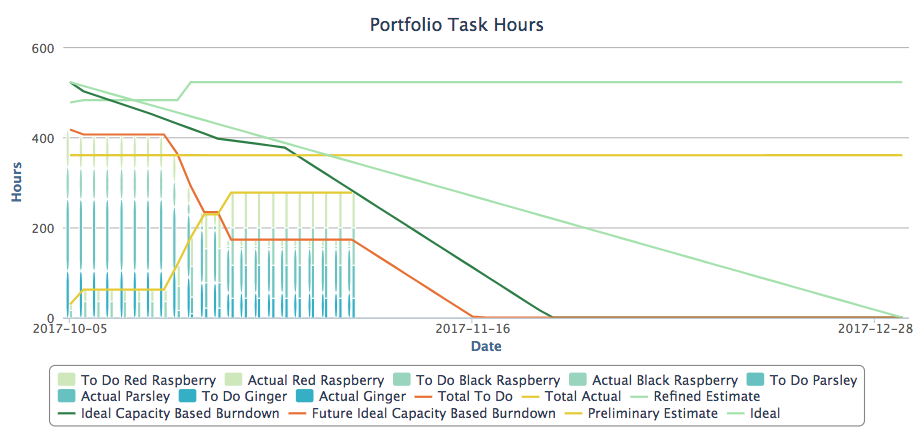
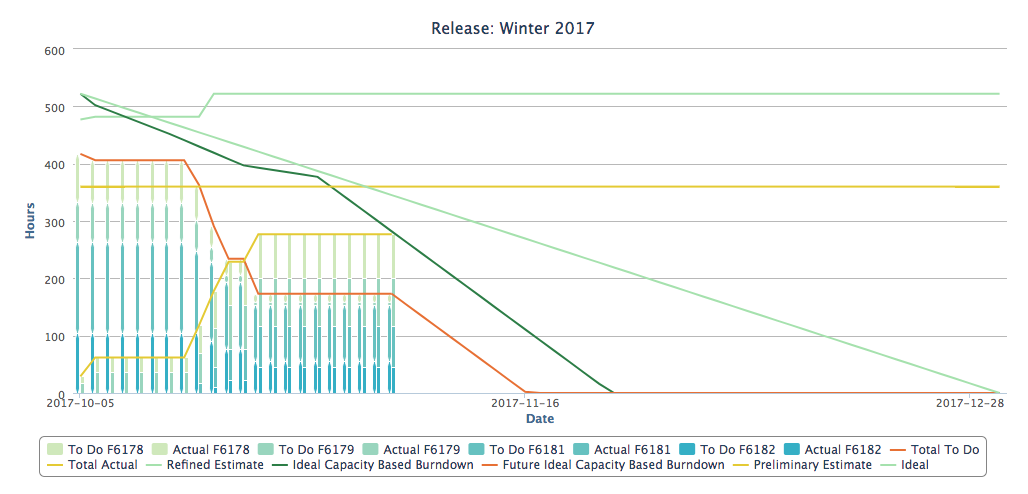
Misc fixes - full height chart - can now load features for individual PIs - spinner while data loading - Release or Feature IDs on title - burndowns start on actual instead of 1st todo - pass feature Model objects around - don't use ReleaseStartDate as an actual start date - clarified data loading m

diff --git a/src/javascript/Calculator.js b/src/javascript/Calculator.js
@@ -11,7 +11,7 @@
     var METRIC_NAME_FUTURE_IDEAL_CAPACITY_BURNDOWN = 'Future ' + METRIC_NAME_IDEAL_CAPACITY_BURNDOWN;
     var METRIC_NAME_TASK_ESTIMATE_TOTAL = 'Refined Estimate';
 
-    var SUMMARY_METRIC_NAME_TOTAL_TODO_START_INDEX = METRIC_NAME_TOTAL_TODO + ' Start Index';
+    var SUMMARY_METRIC_NAME_ACTUAL_START_INDEX = 'Actual Start Index';
     var SUMMARY_METRIC_NAME_TODAY_INDEX = 'Today Index';
     var SUMMARY_METRIC_NAME_INITIAL_HOUR_ESTIMATE = 'Preliminary Estimate';
     var SUMMARY_METRIC_NAME_IDEAL_BURNDOWN = 'Ideal';
@@ -73,12 +73,12 @@
             // Minimum step of 1, otherwise step an even amount if there are a small number of features
             var colorIndexStep = Math.min(1, Math.floor(numColors / Math.min(numColors, this.features.length)));
             _.each(this.features, function (feature) {
-                metricNames[METRIC_NAME_PREFIX_TODO + feature.Name] = {
+                metricNames[METRIC_NAME_PREFIX_TODO + feature.get('FormattedID')] = {
                     stack: METRIC_NAME_PREFIX_TODO,
                     color: Ext.draw.Color.toHex(colors[colorIndex]),
                     borderRadius: 10
                 };
-                metricNames[METRIC_NAME_PREFIX_ACTUAL + feature.Name] = {
+                metricNames[METRIC_NAME_PREFIX_ACTUAL + feature.get('FormattedID')] = {
                     stack: METRIC_NAME_PREFIX_ACTUAL,
                     color: Ext.draw.Color.toHex(colors[colorIndex])
                 };
@@ -115,49 +115,7 @@
 
         _getCapacityBurndownForTick: function (snapshot, index, summaryMetrics, seriesData) {
             var result = 0;
-            // TODO if today is not on the chart
-            var todoStartIndex = summaryMetrics[SUMMARY_METRIC_NAME_TOTAL_TODO_START_INDEX];
-            if (index < todoStartIndex) {
-                // Haven't started yet
-                result = null;
-            } else if (index == todoStartIndex) {
-                // First day To Do data is available, this is start of ideal burndown
-                result = summaryMetrics[SUMMARY_METRIC_NAME_TASK_EST_TOTAL_MAX];
-            } else {
-                var latestValidCapacitySnapshot;
-                var todayIndex = summaryMetrics[SUMMARY_METRIC_NAME_TODAY_INDEX];
-                if (todayIndex == -1) {
-                    var todayDate = new Date();
-                    var startDate = Ext.Date.parse(seriesData[0].tick, 'c');
-                    if (startDate > todayDate) {
-                        // Chart begins after today
-                        todayIndex = 0;
-                    } else {
-                        // Chart ends before today
-                        todayIndex = seriesData.length - 1;
-                    }
-                }
-
-                if (index > todayIndex) {
-                    latestValidCapacitySnapshot = seriesData[todayIndex];
-                } else {
-                    latestValidCapacitySnapshot = snapshot;
-                }
-                var currentCapacity = this._getDailyCapacityForTick(latestValidCapacitySnapshot);
-
-                var priorSnapshot = seriesData[index - 1];
-
-                // Today the team (ideally) would have reduced yesterday's remaining work by today's
-                // daily capacity resulting in today's "ideal capacity burndown" value, which will be
-                // the idea amount of work the team will reduce by tomorrow's capacity, etc.
-                result = Math.max(0, priorSnapshot[METRIC_NAME_IDEAL_CAPACITY_BURNDOWN] - currentCapacity);
-            }
-            return result;
-        },
-
-        _getCapacityBurndownForTick: function (snapshot, index, summaryMetrics, seriesData) {
-            var result = 0;
-            var todoStartIndex = summaryMetrics[SUMMARY_METRIC_NAME_TOTAL_TODO_START_INDEX];
+            var todoStartIndex = summaryMetrics[SUMMARY_METRIC_NAME_ACTUAL_START_INDEX];
             if (index < todoStartIndex) {
                 // Haven't started yet
                 result = null;
@@ -225,7 +183,7 @@
 
         _getDataForFeature: function (feature, snapshot, attribute) {
             // TODO (tj) Add to readme that 'Feature' name may vary if Portfolio item type
-            if (snapshot.Feature === feature.ObjectID) {
+            if (snapshot.Feature === feature.get('ObjectID')) {
                 return snapshot[attribute];
             } else {
                 return 0;
@@ -234,7 +192,7 @@
 
         _getFeaturesInitialHourEstimates: function () {
             return _.reduce(this.features, function (sum, feature) {
-                return sum + (feature.c_InitialHourEstimate || 0);
+                return sum + (feature.get('c_InitialHourEstimate') || 0);
             }, 0);
         },
 
@@ -246,7 +204,7 @@
 
             var result = 0;
 
-            var todoStartIndex = summaryMetrics[SUMMARY_METRIC_NAME_TOTAL_TODO_START_INDEX];
+            var todoStartIndex = summaryMetrics[SUMMARY_METRIC_NAME_ACTUAL_START_INDEX];
 
             if (index < todoStartIndex) {
                 // Haven't started yet
@@ -280,13 +238,13 @@
             // to each feature. This will be summed by metrics in getMetrics.
             _.forEach(this.features, function (feature) {
                 fields.push({
-                    as: METRIC_NAME_PREFIX_TODO + feature.Name,
+                    as: METRIC_NAME_PREFIX_TODO + feature.get('FormattedID'),
                     f: function (snapshot) {
                         return self._getDataForFeature(feature, snapshot, 'TaskRemainingTotal');
                     }
                 });
                 fields.push({
-                    as: METRIC_NAME_PREFIX_ACTUAL + feature.Name,
+                    as: METRIC_NAME_PREFIX_ACTUAL + feature.get('FormattedID'),
                     f: function (snapshot) {
                         return self._getDataForFeature(feature, snapshot, 'TaskActualTotal');
                     }
@@ -353,14 +311,14 @@
             */
             _.each(this.features, function (feature) {
                 metrics.push({
-                    field: METRIC_NAME_PREFIX_TODO + feature.Name,
-                    as: METRIC_NAME_PREFIX_TODO + feature.Name,
+                    field: METRIC_NAME_PREFIX_TODO + feature.get('FormattedID'),
+                    as: METRIC_NAME_PREFIX_TODO + feature.get('FormattedID'),
                     f: 'sum',
                     display: 'column'
                 });
                 metrics.push({
-                    field: METRIC_NAME_PREFIX_ACTUAL + feature.Name,
-                    as: METRIC_NAME_PREFIX_ACTUAL + feature.Name,
+                    field: METRIC_NAME_PREFIX_ACTUAL + feature.get('FormattedID'),
+                    as: METRIC_NAME_PREFIX_ACTUAL + feature.get('FormattedID'),
                     f: 'sum',
                     display: 'column'
                 });
@@ -405,12 +363,6 @@
         getSummaryMetricsConfig: function () {
             return [
                 {
-                    as: SUMMARY_METRIC_NAME_TOTAL_TODO_START_INDEX,
-                    f: function (seriesData, summaryMetrics) {
-                        return _.findIndex(seriesData, METRIC_NAME_TOTAL_TODO);
-                    }
-                },
-                {
                     as: SUMMARY_METRIC_NAME_INITIAL_HOUR_ESTIMATE,
                     f: this._getFeaturesInitialHourEstimates.bind(this)
                 },
@@ -418,6 +370,15 @@
                     field: METRIC_NAME_TASK_ESTIMATE_TOTAL,
                     as: SUMMARY_METRIC_NAME_TASK_EST_TOTAL_MAX,
                     f: 'max'
+                },
+                {
+                    as: SUMMARY_METRIC_NAME_ACTUAL_START_INDEX,
+                    f: (function (seriesData, summaryMetrics) {
+                        var startDate = Ext.Date.parse(this.getStartDate(), 'c');
+                        return _.findIndex(seriesData, function (data) {
+                            return Ext.Date.parse(data.tick, 'c') >= startDate;
+                        });
+                    }).bind(this)
                 },
                 {
                     as: SUMMARY_METRIC_NAME_TODAY_INDEX,

diff --git a/src/javascript/app.js b/src/javascript/app.js
@@ -1,31 +1,17 @@
 // TODO (tj) use Ext or _ for array functions
 // TODO (tj) use Ext.Date.between for date checks
 
-//TODO (tj) Next steps
-/**
- * Manual tests
- * Select Theme with child Initiatives, Features and Stories
- * Select Initiative with child Features and Stories
- * Select Feature with child Stories
- * Select Portfolio Item with no direct children
- * Select Portfolio Item with no decendent Stories
- * Select Portfolio Items with mix of decendent Stories and no decendent
- *
- * What if no items returned for any expected item? Features, Iterations, Stories, etc...
- */
-
 // TODO (tj) Possible optimizations
 /**
  * If only 1 features, make todo and actual different colors
  * dash/dot the todo and actual lines
  * distinct colors for all lines (different from columns)
- * Start chart on actual start date
  */
 
 Ext.define("com.ca.technicalservices.Burnupdown", {
-    extend: 'Rally.app.TimeboxScopedApp',
+    extend: 'Rally.app.App',
 
-    scopeType: 'release',
+    layout: 'fit',
 
     requires: [
         'SettingsUtils',
@@ -68,22 +54,25 @@ Ext.define("com.ca.technicalservices.Burnupdown", {
     launch: function () {
         var promise;
         var release, features, stories, startDate, endDate, iterationCapacitiesManager;
+
+        this.setLoading("Loading data ...");
+
         var releaseManager = Ext.create('com.ca.technicalservices.Burnupdown.ReleaseManager');
 
-        if ( SettingsUtils.isReleaseScope() ) {
+        if (SettingsUtils.isReleaseScope()) {
             promise = releaseManager.getReleaseByName(SettingsUtils.getRelease().Name)
         } else {
             promise = Deft.promise.Promise.when(undefined);
         }
 
         promise.then({
-                scope: this,
-                success: function (releaseData) {
-                    release = releaseData;
-                    var featureManager = Ext.create('com.ca.technicalservices.Burnupdown.FeatureManager');
-                    return featureManager.getFeatures(release);
-                }
-            })
+            scope: this,
+            success: function (releaseData) {
+                release = releaseData;
+                var featureManager = Ext.create('com.ca.technicalservices.Burnupdown.FeatureManager');
+                return featureManager.getFeatures(release);
+            }
+        })
             .then({
                 scope: this,
                 success: function (featuresData) {
@@ -111,7 +100,7 @@ Ext.define("com.ca.technicalservices.Burnupdown", {
                 scope: this,
                 success: function () {
                     var storyOids = _.pluck(stories, 'ObjectID');
-                    this.add({
+                    var chart = this.add({
                         xtype: 'rallychart',
                         storeType: 'Rally.data.lookback.SnapshotStore',
                         storeConfig: this._getStoreConfig(storyOids),
@@ -123,12 +112,22 @@ Ext.define("com.ca.technicalservices.Burnupdown", {
                             iterationCapacitiesManager: iterationCapacitiesManager,
                             features: features
                         },
-                        chartConfig: this._getChartConfig()
+                        chartConfig: this._getChartConfig(this._getChartTitle(release, features)),
+                        loadMask: false,
+                        listeners: {
+                            scope: this,
+                            readyToRender: function () {
+                                this.setLoading(false);
+                            }
+                        }
                     });
+                    chart.setLoadMask(false);   // Hide chart default load mask
                 }
             })
             .otherwise({
+                scope: this,
                 fn: function (msg) {
+                    this.setLoading(false);
                     Ext.Msg.alert('Error', msg);
                 }
             })
@@ -158,13 +157,13 @@ Ext.define("com.ca.technicalservices.Burnupdown", {
     /**
      * Generate a valid Highcharts configuration object to specify the chart
      */
-    _getChartConfig: function () {
+    _getChartConfig: function (title) {
         return {
             chart: {
                 zoomType: 'xy'
             },
             title: {
-                text: 'Portfolio Task Hours'
+                text: title
             },
             xAxis: {
                 tickmarkPlacement: 'on',
@@ -191,5 +190,17 @@ Ext.define("com.ca.technicalservices.Burnupdown", {
                 }
             }
         };
+    },
+
+    _getChartTitle: function (release, features) {
+        var result;
+        if ( SettingsUtils.isReleaseScope() ) {
+            result = 'Release: ' + release.get('Name');
+        } else {
+            result = 'Features: ' + _.map(features, function(feature) {
+                return feature.get('FormattedID');
+            }).join(', ');
+        }
+        return result;
     }
 });

diff --git a/src/javascript/DateManager.js b/src/javascript/DateManager.js
@@ -37,15 +37,15 @@
         function _getDatesFromRelease(release, initialValue) {
             var plannedStartDate = release.get('ReleaseStartDate') ? Ext.Date.parse(release.get('ReleaseStartDate'), 'c') : undefined;
             var plannedEndDate = release.get('ReleaseDate') ? Ext.Date.parse(release.get('ReleaseDate'), 'c') : undefined;
-            initialValue.addDates(plannedStartDate, plannedStartDate, plannedEndDate);
+            initialValue.addDates(plannedStartDate, undefined, plannedEndDate);
             return initialValue;
         }
 
         function _getDatesFromFeatures(features, initialValue) {
             var result = _.reduce(features, function (accumulator, feature) {
-                var plannedStartDate = feature.PlannedStartDate ? Ext.Date.parse(feature.PlannedStartDate, 'c') : undefined;
-                var actualStartDate = feature.ActualStartDate ? Ext.Date.parse(feature.ActualStartDate, 'c') : undefined;
-                var plannedEndDate = feature.PlannedEndDate ? Ext.Date.parse(feature.PlannedEndDate, 'c') : undefined;
+                var plannedStartDate = feature.get('PlannedStartDate') ? Ext.Date.parse(feature.get('PlannedStartDate'), 'c') : undefined;
+                var actualStartDate = feature.get('ActualStartDate') ? Ext.Date.parse(feature.get('ActualStartDate'), 'c') : undefined;
+                var plannedEndDate = feature.get('PlannedEndDate') ? Ext.Date.parse(feature.get('PlannedEndDate'), 'c') : undefined;
 
                 accumulator.addDates(plannedStartDate, actualStartDate, plannedEndDate);
 

diff --git a/src/javascript/FeatureManager.js b/src/javascript/FeatureManager.js
@@ -11,7 +11,8 @@
                     'c_InitialHourEstimate',
                     'PlannedStartDate',
                     'ActualStartDate',
-                    'PlannedEndDate'
+                    'PlannedEndDate',
+                    'FormattedID'
                 ]
             },
             constructor: function (config) {
@@ -28,13 +29,7 @@
             } else {
                 promise = _getFeaturesFromPis.call(this, SettingsUtils.getPortfolioItems());
             }
-            return promise.then({
-                success: function (data) {
-                    // Get an object of just the fetched values
-                    return _.pluck(data, 'raw');
-                }
-            })
-
+            return promise;
         }
 
         function _getFeaturesFromRelease(release) {
@@ -68,7 +63,7 @@
                     listeners: {
                         load: function (store, data, success) {
                             if (!success || data.length < 1) {
-                                deferred.reject("Unable to load features from release " + release.get('Name'));
+                                deferred.reject("No features found in release \"" + release.get('Name') + "\" in the current or parent projects.");
                             } else {
                                 deferred.resolve(data);
                             }

diff --git a/src/javascript/StoriesManager.js b/src/javascript/StoriesManager.js
@@ -16,7 +16,9 @@
 
         function _getCurrentStories(features) {
             var deferred = Ext.create('Deft.Deferred');
-            var featureOids = _.pluck(features, 'ObjectID');
+            var featureOids = _.map(features, function(feature){
+                return feature.get('ObjectID');
+            });
             var dataContext = Rally.getApp().getContext().getDataContext();
             var filters = [
                 {
@@ -50,7 +52,7 @@
                 listeners: {
                     load: function (store, data, success) {
                         if (!success || data.length < 1) {
-                            deferred.reject("Unable to load user stories");
+                            deferred.reject("Unable to load user stories for the selected features");
                         } else {
                             deferred.resolve(_.pluck(data, 'raw'));
                         }

diff --git a/src/javascript/ReleaseManager.js b/src/javascript/ReleaseManager.js
@@ -49,7 +49,7 @@
                     listeners: {
                         load: function (store, data, success) {
                             if (!success || data.length < 1) {
-                                deferred.reject("Unable to load release " + name);
+                                deferred.reject("Unable to load release \"" + name + "\" for the current project.");
                             } else {
                                 deferred.resolve(data[0]);
                             }
